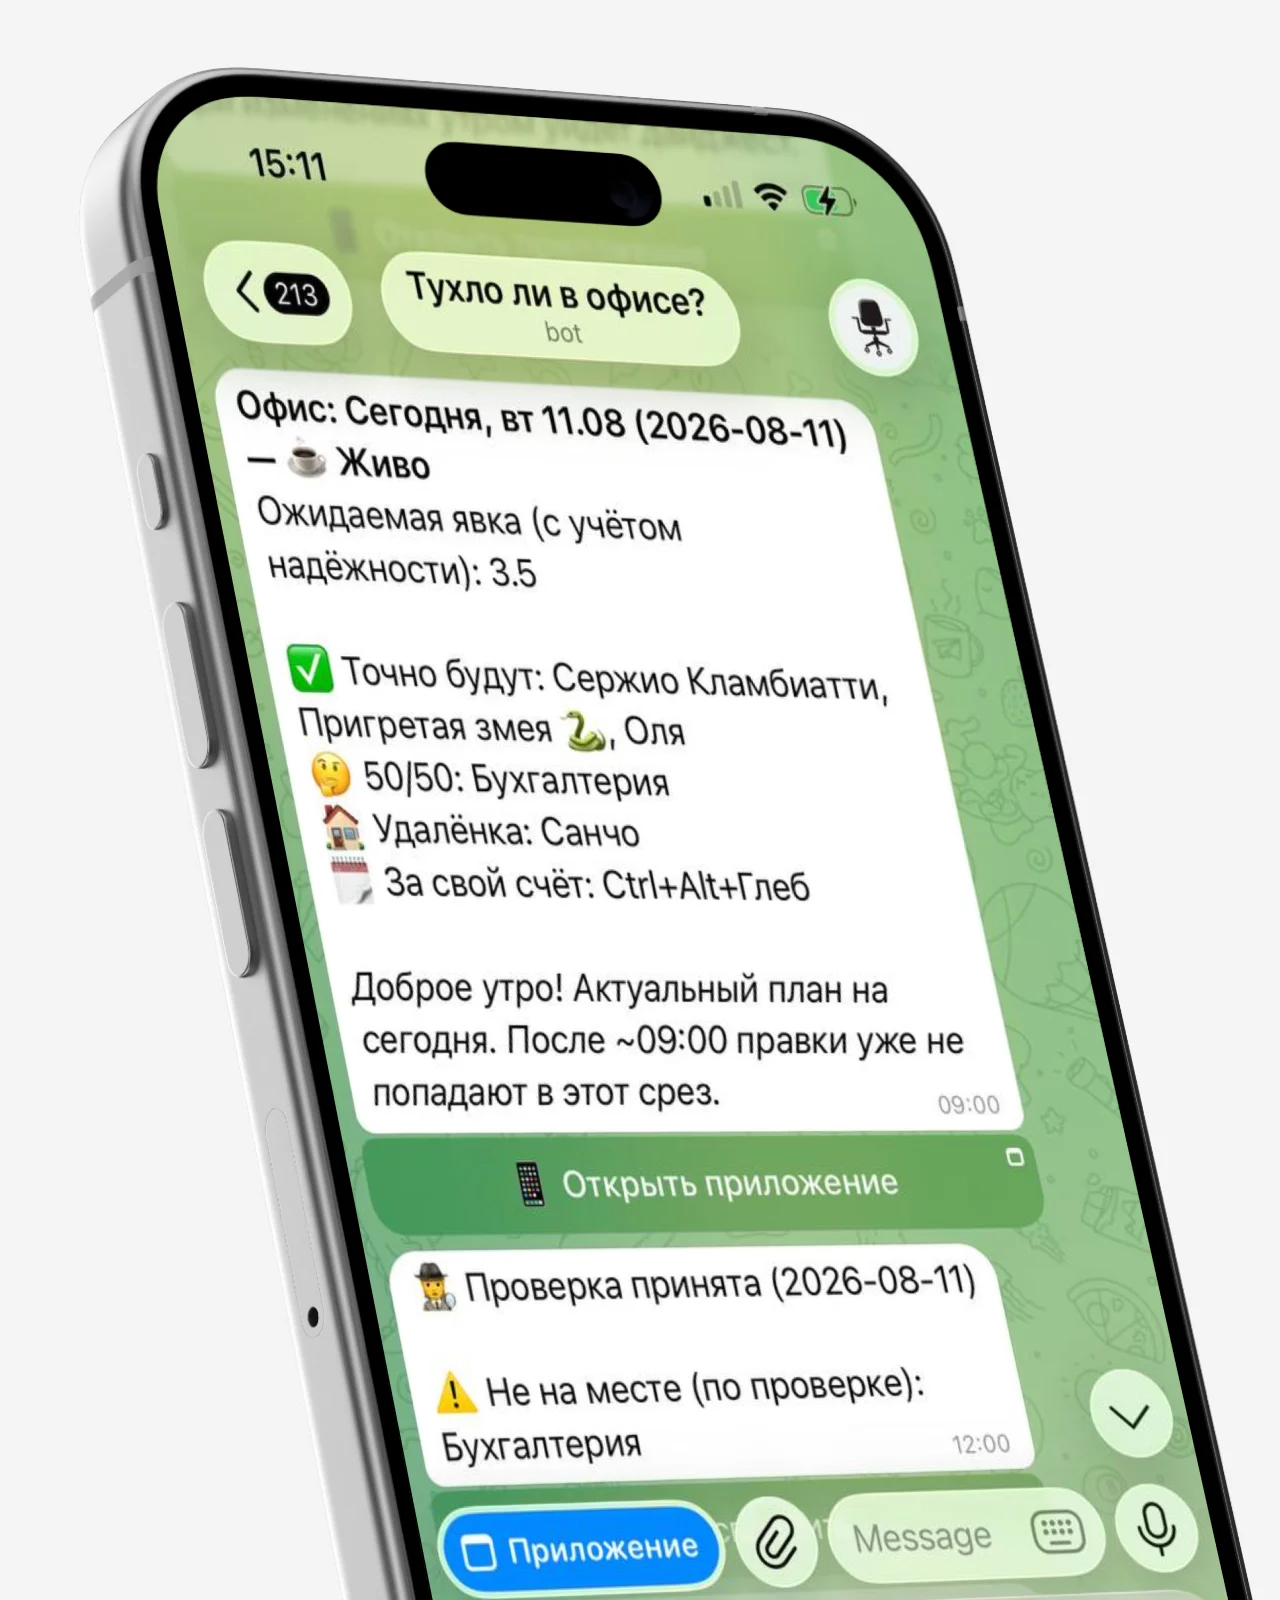
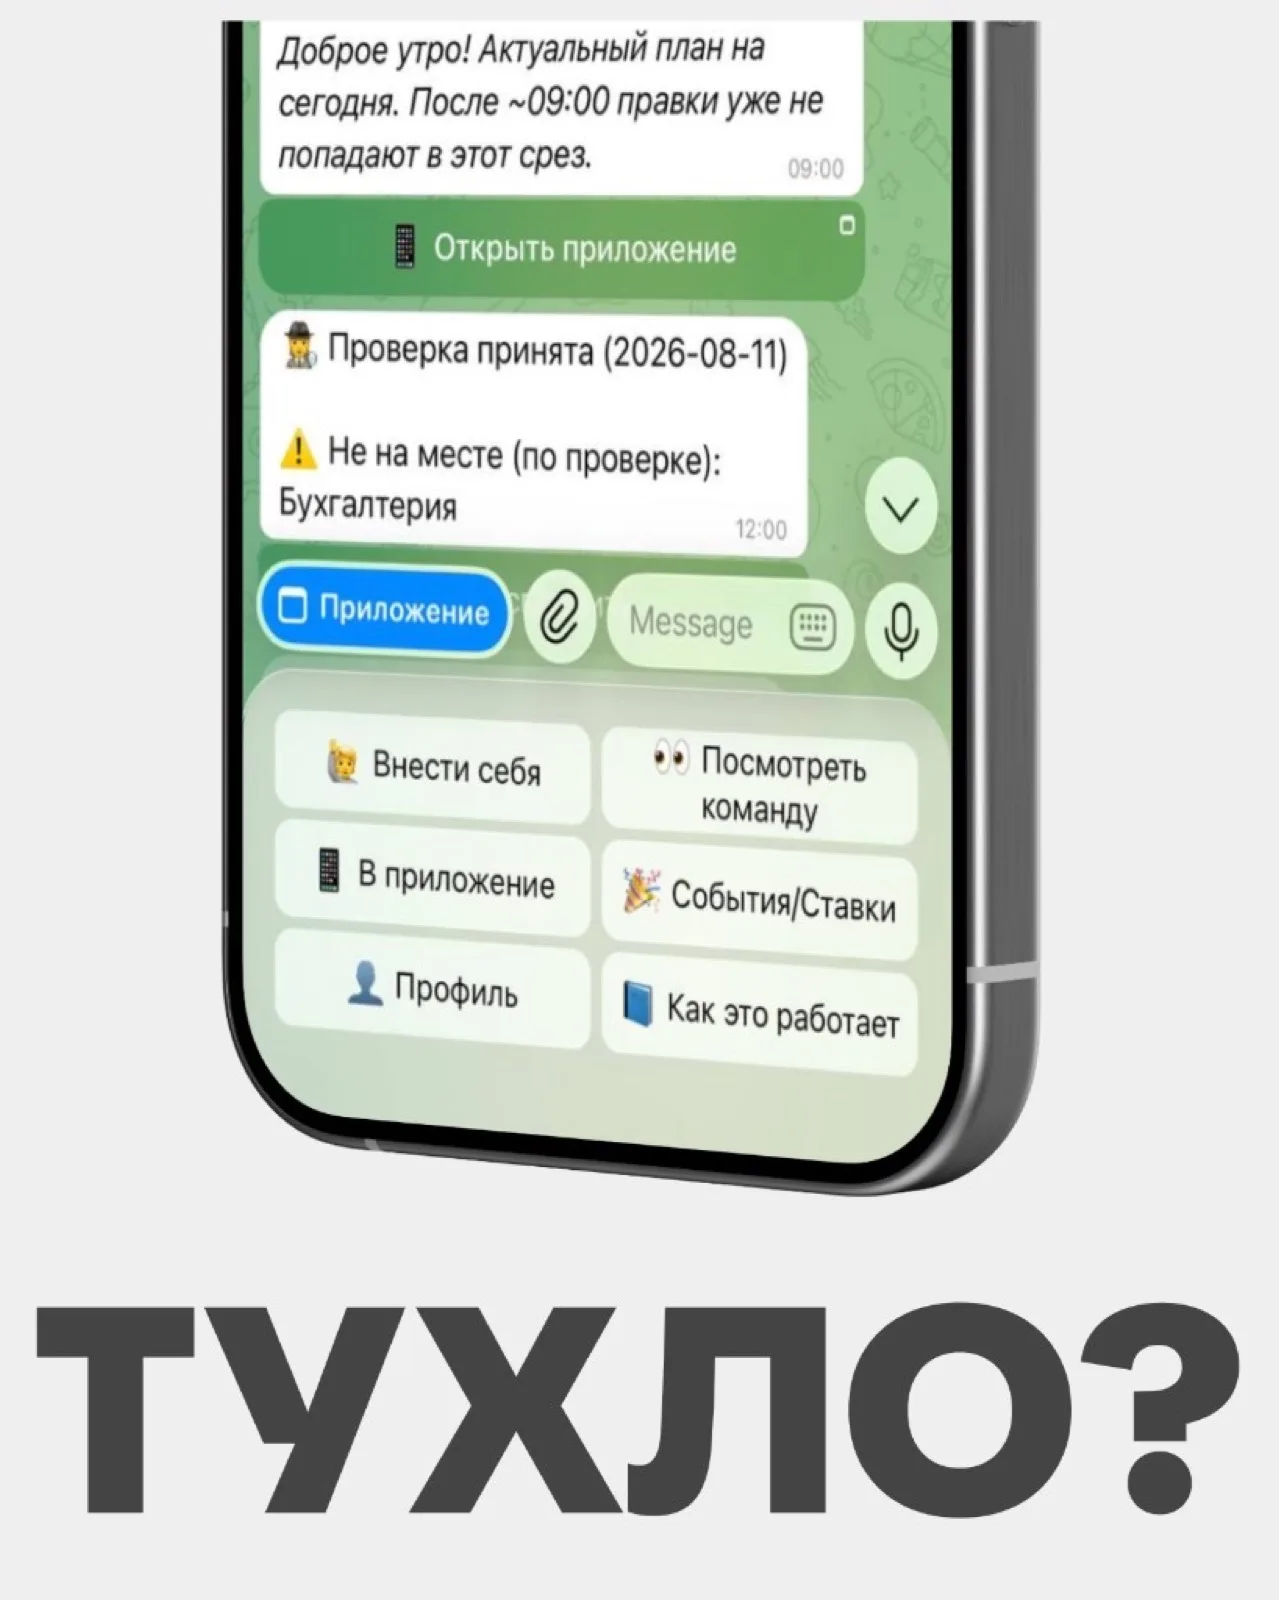
Update office-bot vertical cover portrait

diff --git a/lflit4lv1b/index.html b/lflit4lv1b/index.html
@@ -7,7 +7,7 @@
       content="width=device-width, initial-scale=1.0, viewport-fit=cover"
     />
     <title>Сергей Кламбоцкий — креатор, маркетолог, AI-интегратор</title>
-    <!-- build:1786464116 -->
+    <!-- build:1786464452 -->
     <meta
       name="description"
       content="Исследую мир через технологии, творчество, креатив, динамику и рефлексию. Маркетолог, креатор, AI-интегратор."
